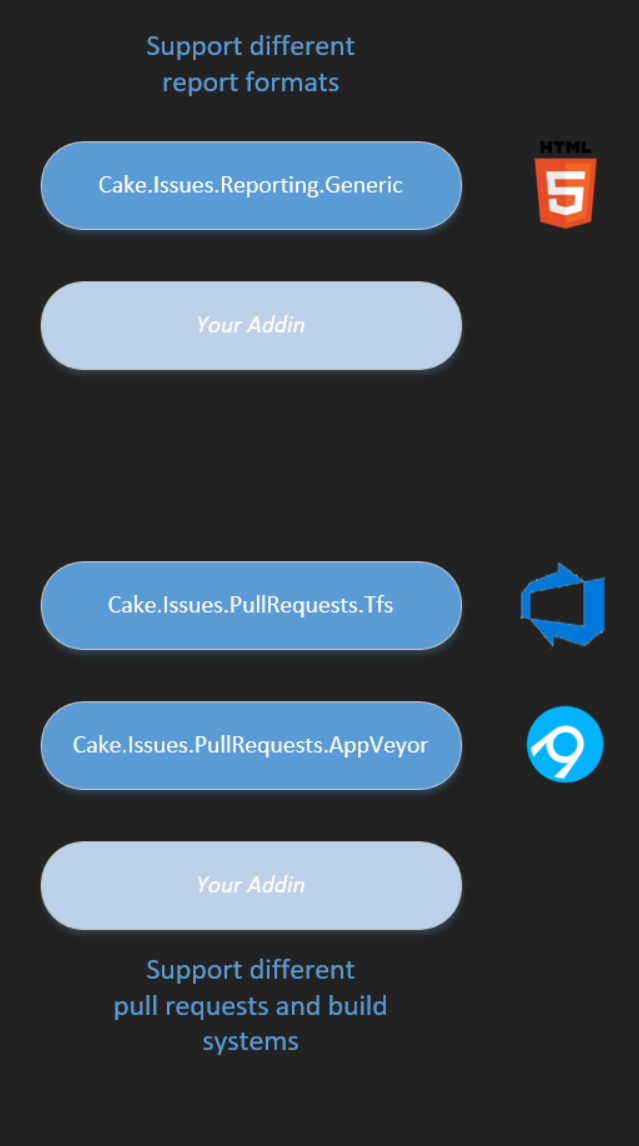
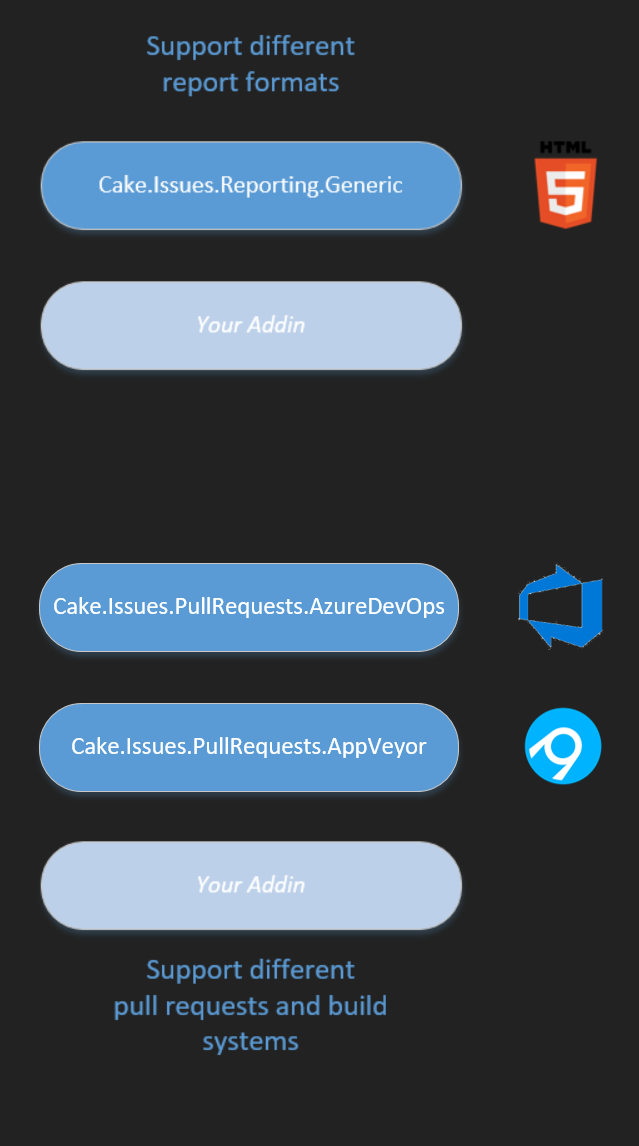
Update to Cake.Issues 0.8.0

diff --git a/PITCHME.md b/PITCHME.md
@@ -95,7 +95,7 @@ Fast feedback for developers
 Pull request reviews should focus on business issues
 
 ---
-  
+
 ![](assets/images/cake.issues.pullrequests.tfs.png)
 
 ---
@@ -347,9 +347,11 @@ Note:
 
 * MsBuild
 * InspectCode / ReSharper
+* DupFinder
 * ESLint
 * Markdownlint
 * DocFx
+* Git repository analysis
 
 ---
 
@@ -373,17 +375,13 @@ Task("Read-Issues")
     .IsDependentOn("Run-InspectCode")
     .Does(() =>
 {
-    var settings =
-        new ReadIssuesSettings(new DirectoryPath(@"C:\repo"))
-        {
-            Format = IssueCommentFormat.Markdown
-        };
+    var repoRootPath = new DirectoryPath(@"C:\repo");
+    var inspectCodeLogPath = @"C:\build\inspectcode.log";
 
     IEnumerable<IIssue> issues =
         ReadIssues(
-            InspectCodeIssuesFromFilePath(
-                @"C:\build\inspectcode.log"),
-            settings);
+            InspectCodeIssuesFromFilePath(inspectCodeLogPath),
+            repoRootPath);
 
     Information("{0} issues are found.", issues.Count());
 });
@@ -392,9 +390,9 @@ Task("Read-Issues")
 @[1](Add the core addin)
 @[2](Add specific issue provider implementation)
 @[4-7](Add task for reading issues. Run-InspectCode is a task running InspectCode analysis)
-@[8-12](Define settings for reading issues)
-@[14-18](Read issues)
-@[20](Output number of issues found)
+@[8-9](Define variables for files and directories)
+@[11-14](Read issues)
+@[16](Output number of issues found)
 
 ---
 
@@ -413,7 +411,11 @@ public interface IIssue
 
     int? Line { get; }
 
-    string Message { get; }
+    string MessageText { get; }
+
+    string MessageMarkdown { get; }
+
+    string MessageHtml { get; }
 
     int? Priority { get; }
 
@@ -432,10 +434,10 @@ public interface IIssue
 @[3-5](Project information)
 @[7](File information)
 @[9](Line information)
-@[11](Message)
-@[13-15](Issue priority)
-@[17-19](Rule information)
-@[21-23](Provider information)
+@[11-15](Message in different formats)
+@[17-19](Issue priority)
+@[21-23](Rule information)
+@[25-27](Provider information)
 
 ---
 
@@ -460,6 +462,7 @@ Setup<BuildData>(context =>
     return new BuildData();
 });
 ```
+
 @[1-10](Add typed context class for holding build state. This is a standard C# class.)
 @[12-15](Setup typed context)
 
@@ -470,17 +473,13 @@ Setup<BuildData>(context =>
 ```csharp
 Task("Read-Issues").Does<BuildData>(data =>
 {
-    var settings =
-        new ReadIssuesSettings(new DirectoryPath(@"C:\repo"))
-        {
-            Format = IssueCommentFormat.Markdown
-        };
+    var repoRootPath = new DirectoryPath(@"C:\repo");
+    var inspectCodeLogPath = @"C:\build\inspectcode.log";
 
     IEnumerable<IIssue> issues =
         ReadIssues(
-            InspectCodeIssuesFromFilePath(
-                @"C:\build\inspectcode.log"),
-            settings);
+            InspectCodeIssuesFromFilePath(inspectCodeLogPath),
+            repoRootPath);
 
     Information("{0} issues are found.", issues.Count());
 
@@ -489,7 +488,7 @@ Task("Read-Issues").Does<BuildData>(data =>
 ```
 
 @[1](Pass typed context to Read-Issues task)
-@[17](Save issues in typed context)
+@[13](Save issues in typed context)
 
 ---
 
@@ -525,7 +524,7 @@ Task("Break-Build")
 ## Creating reports
 
 ---
-  
+
 ### Report formats
 
 * Responsible for creating reports
@@ -542,6 +541,7 @@ Note:
 * Generic format using Razor templates
   * Out of the box templates (e.g. DevExtreme)
   * Support for custom templates
+* SARIF compatible report
 
 ---
 
@@ -594,7 +594,7 @@ Note:
 ## Integration in pull request workflow
 
 ---
-  
+
 ### Pull request & build systems
 
 * Responsible for communicating with pull request or build systems
@@ -607,11 +607,11 @@ Note:
 * Full feature list: https://cakeissues.net/docs/overview/features#cake.issues.pullrequests
 
 ---
-  
+
 ### Available pull request & build systems
 
 * AppVeyor
-* Team Foundation Server / Azure DevOps
+* Azure DevOps
 
 ---
 
@@ -647,18 +647,18 @@ Task("Report-IssuesToPullRequest")
 ### How to set state on Azure DevOps pull request
 
 ```csharp
-#addin "Cake.Tfs"
+#addin "Cake.AzureDevOps"
 
 Task("Set-AzureDevOpsPullRequestState")
     .IsDependentOn("Read-Issues")
     .Does<BuildData>(data =>
 {
-    TfsPullRequestStatusState state
+    AzureDevOpsPullRequestStatusState state
     string description;
 
     if (data.Issues.Any())
     {
-        state = TfsPullRequestStatusState.Error;
+        state = AzureDevOpsPullRequestStatusState.Error;
         description =
             string.Format(
                 "{0} issues found.",
@@ -666,12 +666,12 @@ Task("Set-AzureDevOpsPullRequestState")
     }
     else
     {
-        state = TfsPullRequestStatusState.Succeeded;
+        state = AzureDevOpsPullRequestStatusState.Succeeded;
         description = "No issues found."
     }
 
     var pullRequstStatus =
-        new TfsPullRequestStatus("Issues")
+        new AzureDevOpsPullRequestStatus("Issues")
         {
             Genre = "MyBuildScript",
             State = state,
@@ -679,12 +679,12 @@ Task("Set-AzureDevOpsPullRequestState")
     }
 
     var pullRequestSettings =
-        new TfsPullRequestSettings(
+        new AzureDevOpsPullRequestSettings(
             new Uri("http://myserver:8080/tfs/defaultcollection/myproject/_git/myrepository"),
             "refs/heads/feature/myfeature",
-            TfsAuthenticationNtlm());
+            AzureDevOpsAuthenticationNtlm());
 
-    TfsSetPullRequestStatus(
+    AzureDevOpsSetPullRequestStatus(
         pullRequestSettings,
         pullRequstStatus);
 });
@@ -736,8 +736,9 @@ Note:
 
 * Pre-made build script for integrating into projects
 * Distributed as NuGet package
-* Support for MsBuild & InspectCode
-* Support for Azure Pipelines & Azure Repos
+* Support for MsBuild & InspectCode log files
+* Support for Azure Pipelines & AppVeyor
+* Support for Azure Repos
 
 Note:
 
@@ -796,13 +797,13 @@ Note:
 ## Resources
 
 * Documentation & Examples:
-  
+
   https://cakeissues.net
 * Source code:
-  
+
   https://github.com/topics/cake-issues
 * Reach out:
-  
+
   @fa[twitter pad-fa] @hereispascal<br/>
   @fa[github pad-fa] github.com/pascalberger<br/>
   @fa[envelope pad-fa] pascal@cakebuild.net
